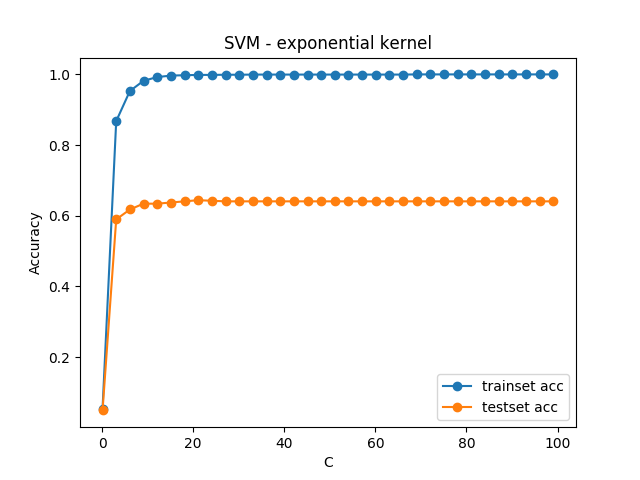
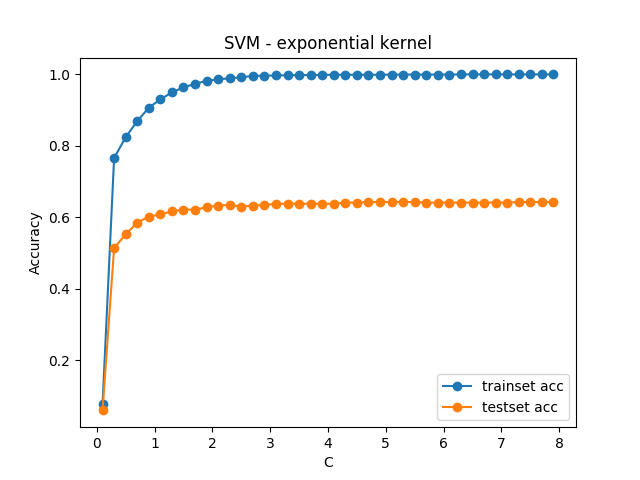
Fixed svm plots

diff --git a/svm.py b/svm.py
@@ -146,9 +146,9 @@ if __name__ == '__main__':
 
     exp_testing_accuracy = []
     exp_training_accuracy = []
-    exp_range = np.arange(0.1, 100, 3)
+    exp_range = np.arange(0.1, 8, 0.2)
     for c in exp_range:
-        svm_classifier = svm.SVC(C=c, kernel=Exponential(), degree=2, decision_function_shape='ovr')
+        svm_classifier = svm.SVC(C=c, kernel=Exponential(sigma=7), degree=2, decision_function_shape='ovr')
         tsa, tra = evaluate_svm(test_data, train_data, svm_classifier, 'log.tsv')
         exp_testing_accuracy.append(tsa)
         exp_training_accuracy.append(tra)
@@ -164,7 +164,7 @@ if __name__ == '__main__':
 
     poly_testing_accuracy = []
     poly_training_accuracy = []
-    poly_range = np.arange(0.1, 100, 3)
+    poly_range = np.arange(0.1, 10, 0.5)
     for c in poly_range:
             svm_classifier = svm.SVC(C=c, kernel='poly', degree=2, decision_function_shape='ovr')
             tsa, tra = evaluate_svm(test_data, train_data, svm_classifier, 'log.tsv')
